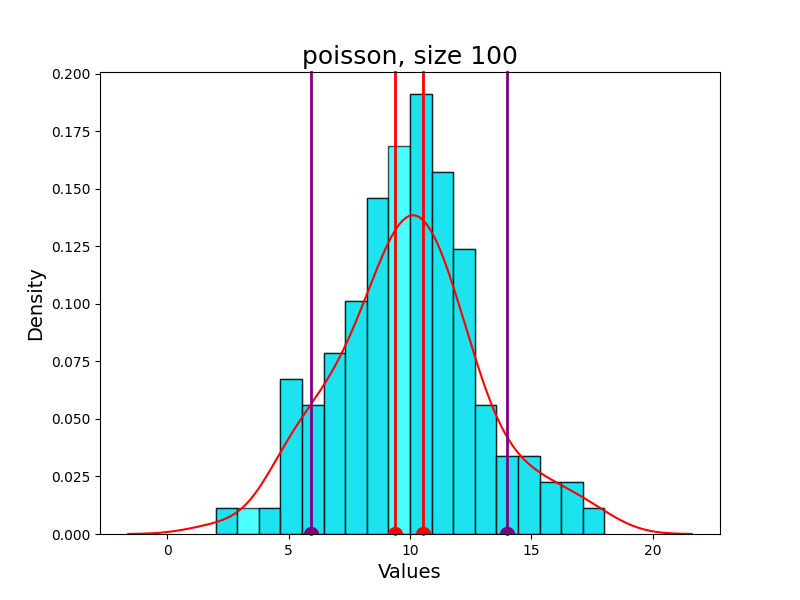
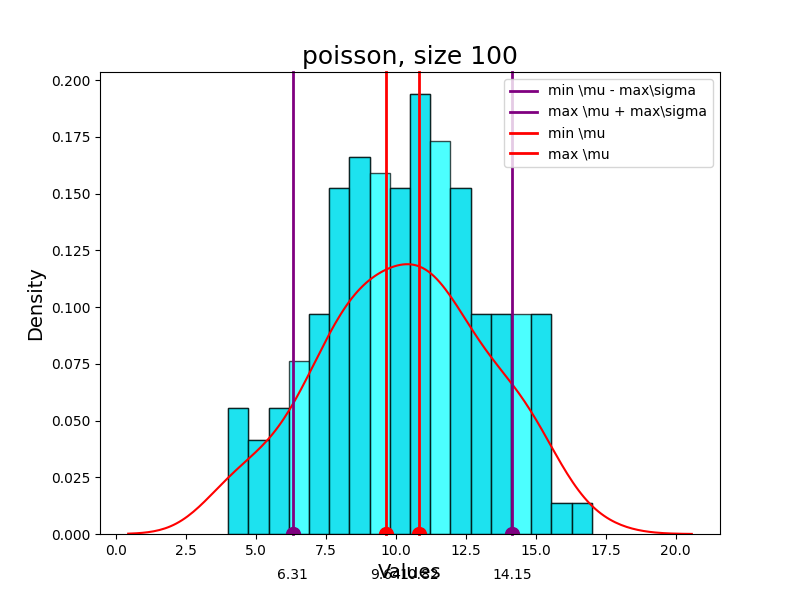
подделана 4 лаба

diff --git a/lab4/file.py b/lab4/file.py
@@ -109,12 +109,36 @@ def calculate_normal(quantiles, powers):
         plt.ylabel('Density', fontsize=14)
 
         plt.axvline(x=LeftMathematicalExpectation - RightDispersion, color='purple', linewidth=2, clip_on=False, label='min \mu - max\sigma')
+        plt.annotate(f'{LeftMathematicalExpectation - RightDispersion:.2f}', 
+             xy=(LeftMathematicalExpectation - RightDispersion, 0), 
+             xytext=(LeftMathematicalExpectation - RightDispersion, -0.02), 
+             ha='center', 
+             fontsize=10)
         plt.plot(LeftMathematicalExpectation - RightDispersion, 0, marker='o', markersize=10, color='purple')
+
         plt.axvline(x=RightMathematicalExpectation + RightDispersion, color='purple', linewidth=2, clip_on=False, label='max \mu + max\sigma')
+        plt.annotate(f'{RightMathematicalExpectation + RightDispersion:.2f}', 
+             xy=(RightMathematicalExpectation + RightDispersion, 0), 
+             xytext=(RightMathematicalExpectation + RightDispersion, -0.02), 
+             ha='center', 
+             fontsize=10)
         plt.plot(RightMathematicalExpectation + RightDispersion, 0, marker='o', markersize=10, color='purple')
+
         plt.axvline(x=LeftMathematicalExpectation, color='red', linewidth=2, clip_on=False, label='min \mu')
+        plt.annotate(f'{LeftMathematicalExpectation:.2f}', 
+             xy=(LeftMathematicalExpectation, 0), 
+             xytext=(LeftMathematicalExpectation, -0.02), 
+             ha='center', 
+             fontsize=10)
         plt.plot(LeftMathematicalExpectation, 0, marker='o', markersize=10, color='red')
+
+
         plt.axvline(x=RightMathematicalExpectation, color='red', linewidth=2, clip_on=False, label='max \mu')
+        plt.annotate(f'{RightMathematicalExpectation:.2f}', 
+             xy=(RightMathematicalExpectation, 0), 
+             xytext=(RightMathematicalExpectation, -0.02), 
+             ha='center', 
+             fontsize=10)
         plt.plot(RightMathematicalExpectation, 0, marker='o', markersize=10, color='red')
         plt.legend()
         plt.savefig(f'{"normal"}, size {power}.png')
@@ -177,13 +201,38 @@ def pyasson_distribution(quantiles, powers):
         plt.ylabel('Density', fontsize=14)
 
         plt.axvline(x=LeftMathematicalExpectation - RightDispersion, color='purple', linewidth=2, clip_on=False, label='min \mu - max\sigma')
+        plt.annotate(f'{LeftMathematicalExpectation - RightDispersion:.2f}', 
+             xy=(LeftMathematicalExpectation - RightDispersion, 0), 
+             xytext=(LeftMathematicalExpectation - RightDispersion, -0.02), 
+             ha='center', 
+             fontsize=10)
         plt.plot(LeftMathematicalExpectation - RightDispersion, 0, marker='o', markersize=10, color='purple')
+
         plt.axvline(x=RightMathematicalExpectation + RightDispersion, color='purple', linewidth=2, clip_on=False, label='max \mu + max\sigma')
+        plt.annotate(f'{RightMathematicalExpectation + RightDispersion:.2f}', 
+             xy=(RightMathematicalExpectation + RightDispersion, 0), 
+             xytext=(RightMathematicalExpectation + RightDispersion, -0.02), 
+             ha='center', 
+             fontsize=10)
         plt.plot(RightMathematicalExpectation + RightDispersion, 0, marker='o', markersize=10, color='purple')
+
         plt.axvline(x=LeftMathematicalExpectation, color='red', linewidth=2, clip_on=False, label='min \mu')
+        plt.annotate(f'{LeftMathematicalExpectation:.2f}', 
+             xy=(LeftMathematicalExpectation, 0), 
+             xytext=(LeftMathematicalExpectation, -0.02), 
+             ha='center', 
+             fontsize=10)
         plt.plot(LeftMathematicalExpectation, 0, marker='o', markersize=10, color='red')
+
+
         plt.axvline(x=RightMathematicalExpectation, color='red', linewidth=2, clip_on=False, label='max \mu')
+        plt.annotate(f'{RightMathematicalExpectation:.2f}', 
+             xy=(RightMathematicalExpectation, 0), 
+             xytext=(RightMathematicalExpectation, -0.02), 
+             ha='center', 
+             fontsize=10)
         plt.plot(RightMathematicalExpectation, 0, marker='o', markersize=10, color='red')
+        plt.legend()
 
         plt.savefig(f'{"poisson"}, size {power}.png')
     
